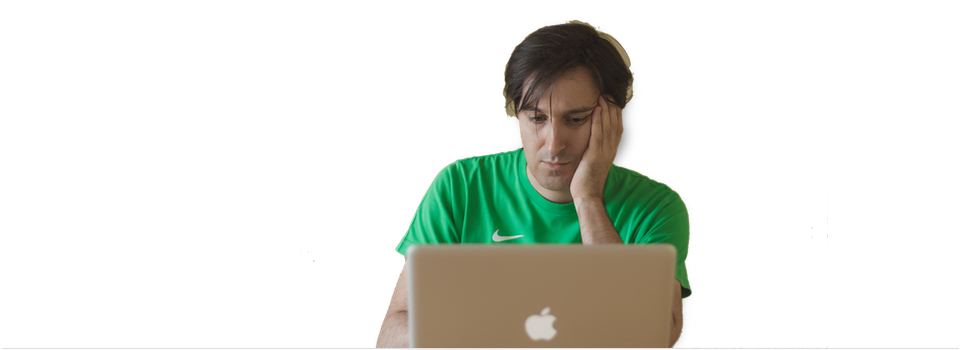
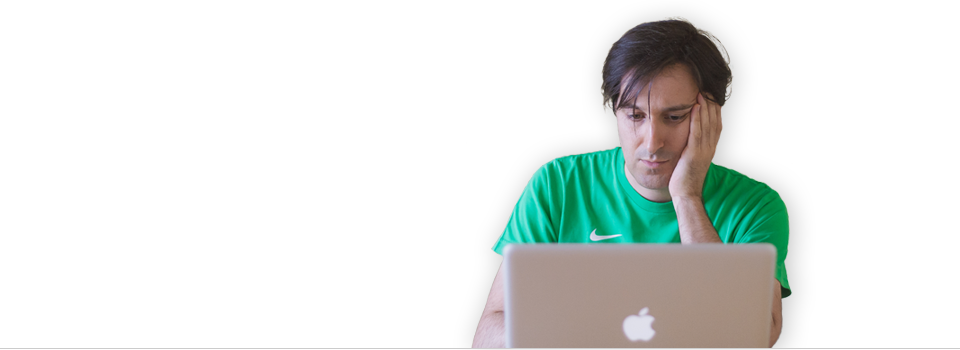
Add SEO and about page details.
Add SEO meta tags and translation catalogs.
Add about page image and responsive css.

Changed region(s): [[0.375, 0.0286, 0.8438, 1.0]]

diff --git a/src/mdsr/StudioBundle/Resources/public/css/about.css b/src/mdsr/StudioBundle/Resources/public/css/about.css
@@ -2,9 +2,12 @@ section#content h1 {
     font-family: Raleway, sans-serif;
     font-weight: 100;
     font-size: 2.25em; /* 36px / 16px */
-    margin: 0.9375em 0 0 0; /* 15px / 16px */
+    margin: 1.25em 0 0 0; /* 20px / 16px */
 }
 
+figure img {
+    width: 100%;
+}
 
 section#content article p {
     font-size: 1.125em;
